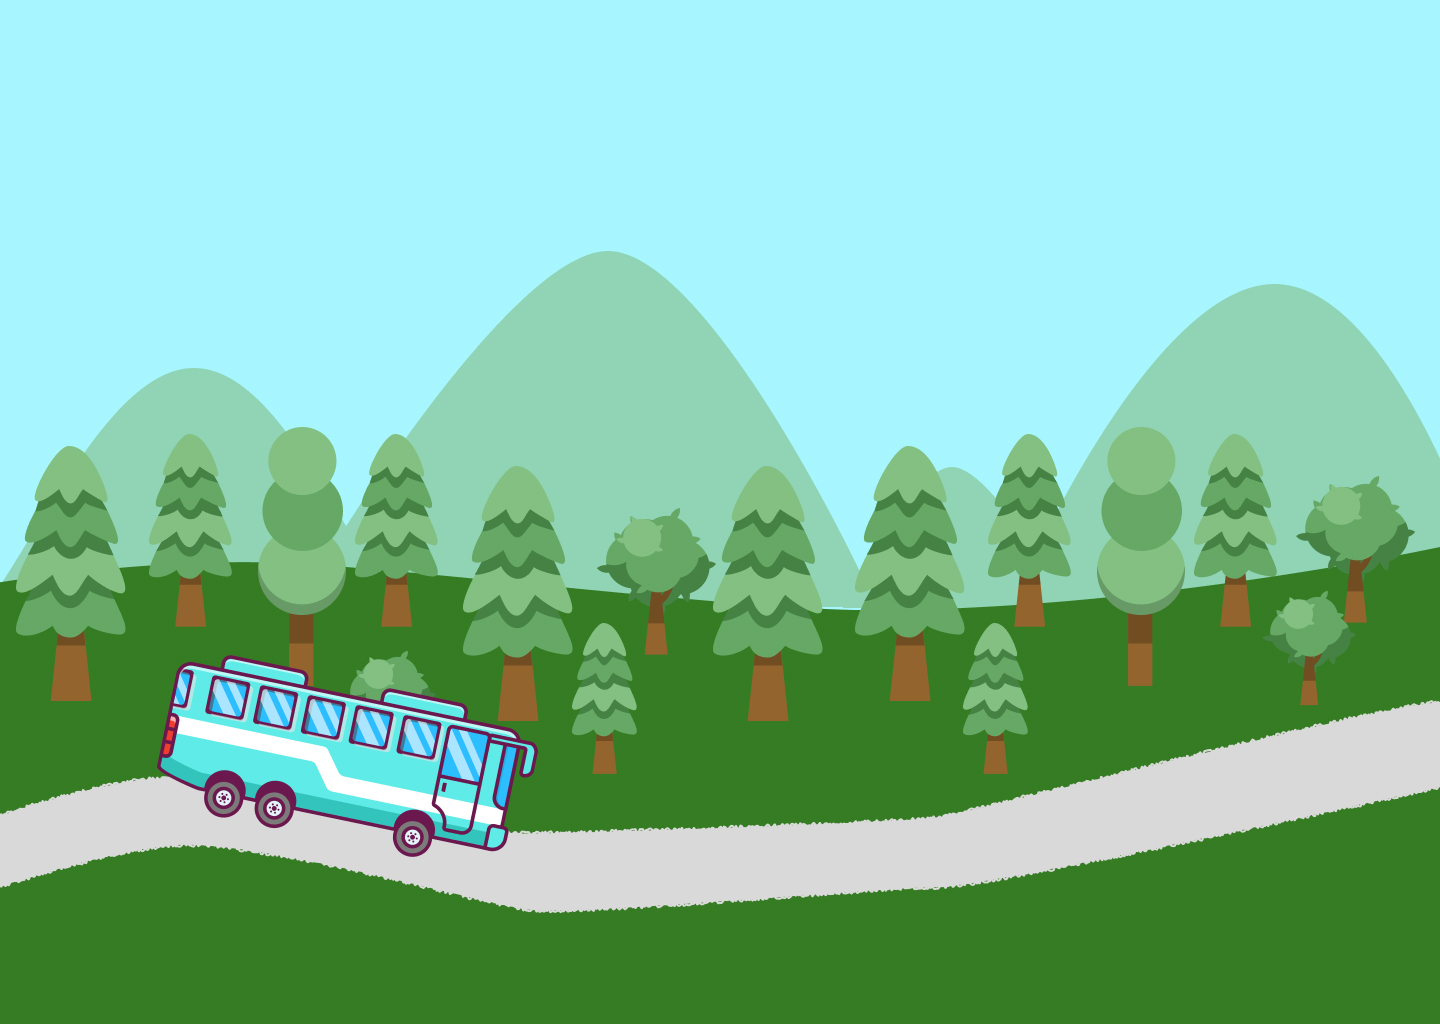
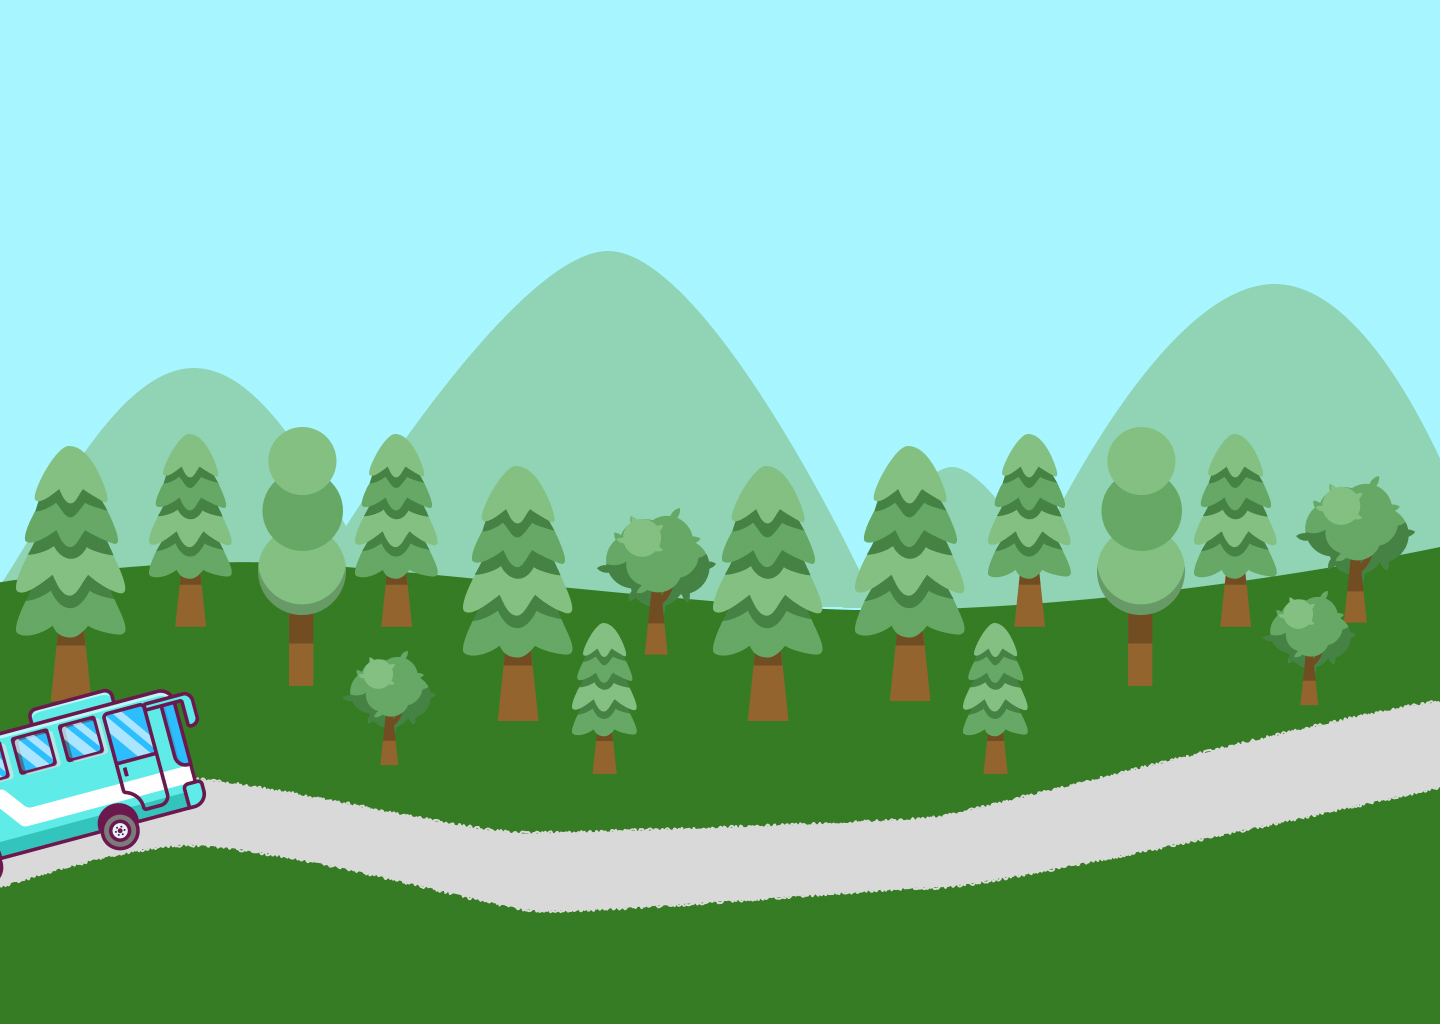
added 2 more images

Changed region(s): [[0.0, 0.625, 0.375, 0.8438]]

diff --git a/living-sketches/sketch.js b/living-sketches/sketch.js
@@ -5,7 +5,7 @@ let busAnim = 0;
 let cloudAnim = 0;
 
 function preload() {
-  for (let i = 1; i <= 3; i++) {
+  for (let i = 1; i <= 5; i++) {
     landscape.push(loadImage("anim" + i + ".jpg"));
   }
   for (let i = 1; i <= 16; i++) {
